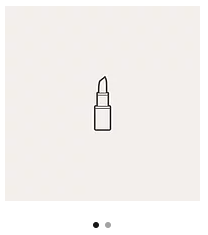
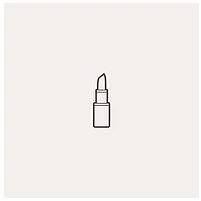
Subindo página de Checkout

Changed region(s): [[0.4478, 0.3284, 0.5672, 0.6567], [0.5075, 0.9254, 0.5373, 0.9851], [0.4478, 0.9254, 0.4776, 0.9851]]

diff --git a/src/app/checkout/checkout.page.scss b/src/app/checkout/checkout.page.scss
@@ -1,0 +1,127 @@
+ion-menu-button {
+    color: var(--ion-color-primary);
+  }
+  
+  #container {
+    text-align: center;
+    position: absolute;
+    left: 0;
+    right: 0;
+    top: 50%;
+    transform: translateY(-50%);
+  }
+  
+  #container strong {
+    font-size: 20px;
+    line-height: 26px;
+  }
+  
+  #container p {
+    font-size: 16px;
+    line-height: 22px;
+    color: #8c8c8c;
+    margin: 0;
+  }
+  
+  #container a {
+    text-decoration: none;
+  }
+  
+  .toolbar{
+    height: 30px;
+  }
+
+  .logo{
+    width: 50px;
+    height: 50px;
+    margin-left: 118px;
+    margin-top: 10px;
+  }
+
+  .imagem-batom{
+    width: 132px;
+    height: 156px;
+    margin-top: -120px;
+    margin-left: 9px;
+  }
+  
+  .text1{
+    font-size: 1rem;
+    margin-left: 145px;
+  }
+
+  .text2{
+    font-size: 0.9rem;
+    margin-left: 145px;
+  }
+
+  .text3{
+    font-size: 1rem;
+    margin-left: 145px;
+  }
+
+  .text4{
+    font-size: 1rem;
+    margin-left: 12px;
+  }
+
+  .text5{
+    font-size: 1rem;
+    margin-left: 12px;
+  }
+
+
+  .textarea1{
+    margin-left: 6px;
+    margin-top: 5px;
+  }
+
+  .textarea2{
+    margin-left: 12px;
+    margin-top: 10px;
+  }
+
+  .visa{
+    width: 40px;
+    height: 30px;
+    margin-top: 5px;
+    margin-left: 12px;
+  }
+
+  .mastercard{
+    width: 40px;
+    height: 30px;
+    margin-top: 5px;
+    margin-left: -200px;
+  }
+
+  .amex{
+    width: 40px;
+    height: 30px;
+    margin-top: 5px;
+    margin-left: 15px;  
+  }
+
+  .hiper{
+    width: 40px;
+    height: 30px;
+    margin-top: 5px;
+    margin-left: 13px; 
+  }
+
+  .elo{
+    width: 40px;
+    height: 30px;
+    margin-top: 5px;
+    margin-left: 173px;  
+  }
+
+  .finalizar-compra{
+      margin-top: 50px;
+      margin-left: 30px;
+      width: 300px;
+      height: 50px;
+      position: center;
+  }
+
+  

diff --git a/src/app/checkout/checkout.page.html b/src/app/checkout/checkout.page.html
@@ -1,9 +1,44 @@
-<ion-header>
+<ion-header [translucent]="true" class="toolbar">
   <ion-toolbar>
-    <ion-title>checkout</ion-title>
+    <ion-buttons slot="start">
+      <ion-menu-button></ion-menu-button>
+    </ion-buttons>
+    <img src="assets/LOGO.png" class="logo ion-image-center">
   </ion-toolbar>
 </ion-header>
+<ion-content [fullscreen]="true">
+  <ion-header collapse="condense">
+    <ion-toolbar>
+    </ion-toolbar>
+  </ion-header>
+  <br>
+  <ion-text class="text1"><strong>Batom Perfeito Boticario<br></strong></ion-text>
+  <ion-text class="text2">REF: 1723693<br></ion-text>
+  <br>
+  <ion-text class="text3"><strong>R$80,00<br></strong></ion-text>
+  <br>
+  <ion-text class="text3">Quantidade<br></ion-text>
+  <img src="assets/Screenshot_6.png" class="imagem-batom">
+  <textarea class="textarea1" cols="8" rows="2"></textarea>
+  
+  <br>
+  <br>
+  <ion-text class="text4">Número do Cartão<br></ion-text>
+  <textarea class="textarea2" cols="30" rows="1"></textarea>
+  <br>
 
-<ion-content>
+  <img src="assets/visa1.png" class="visa">
+  <img src="assets/elo.png" class="elo">
+  <img src="assets/mastercard.png" class="mastercard">
+  <img src="assets/amex.png" class="amex">
+  <img src="assets/hiper.png" class="hiper">
 
-</ion-content>
+  <br>
+  <br>
+  <br>
+  <ion-text class="text5">Frete<br></ion-text>
+  <textarea class="textarea2" cols="30" rows="1"></textarea>
+
+  <ion-button class="finalizar-compra" color="dark">Finalizar Compra</ion-button>
+
+
